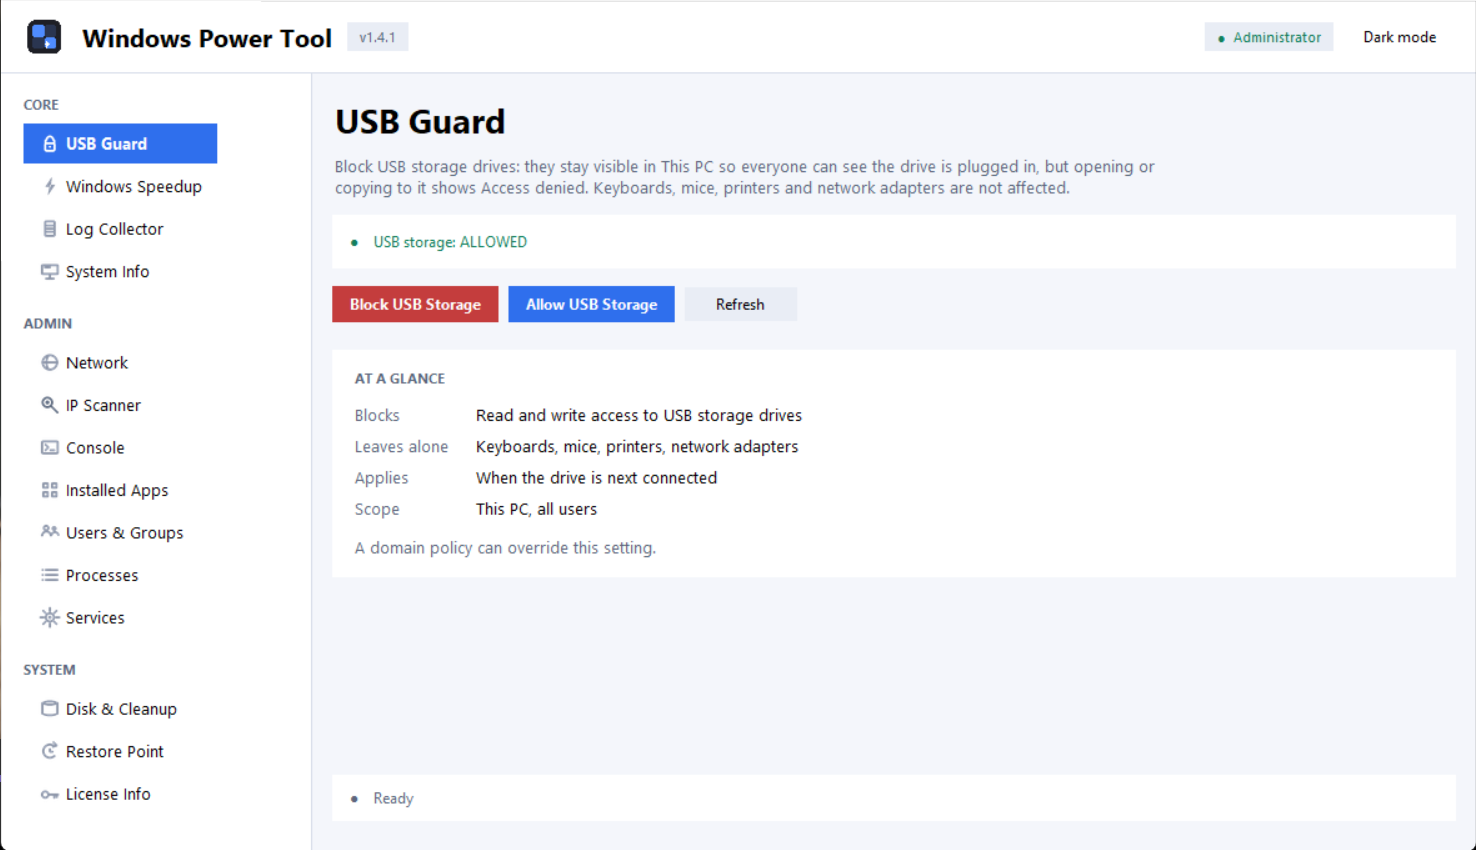
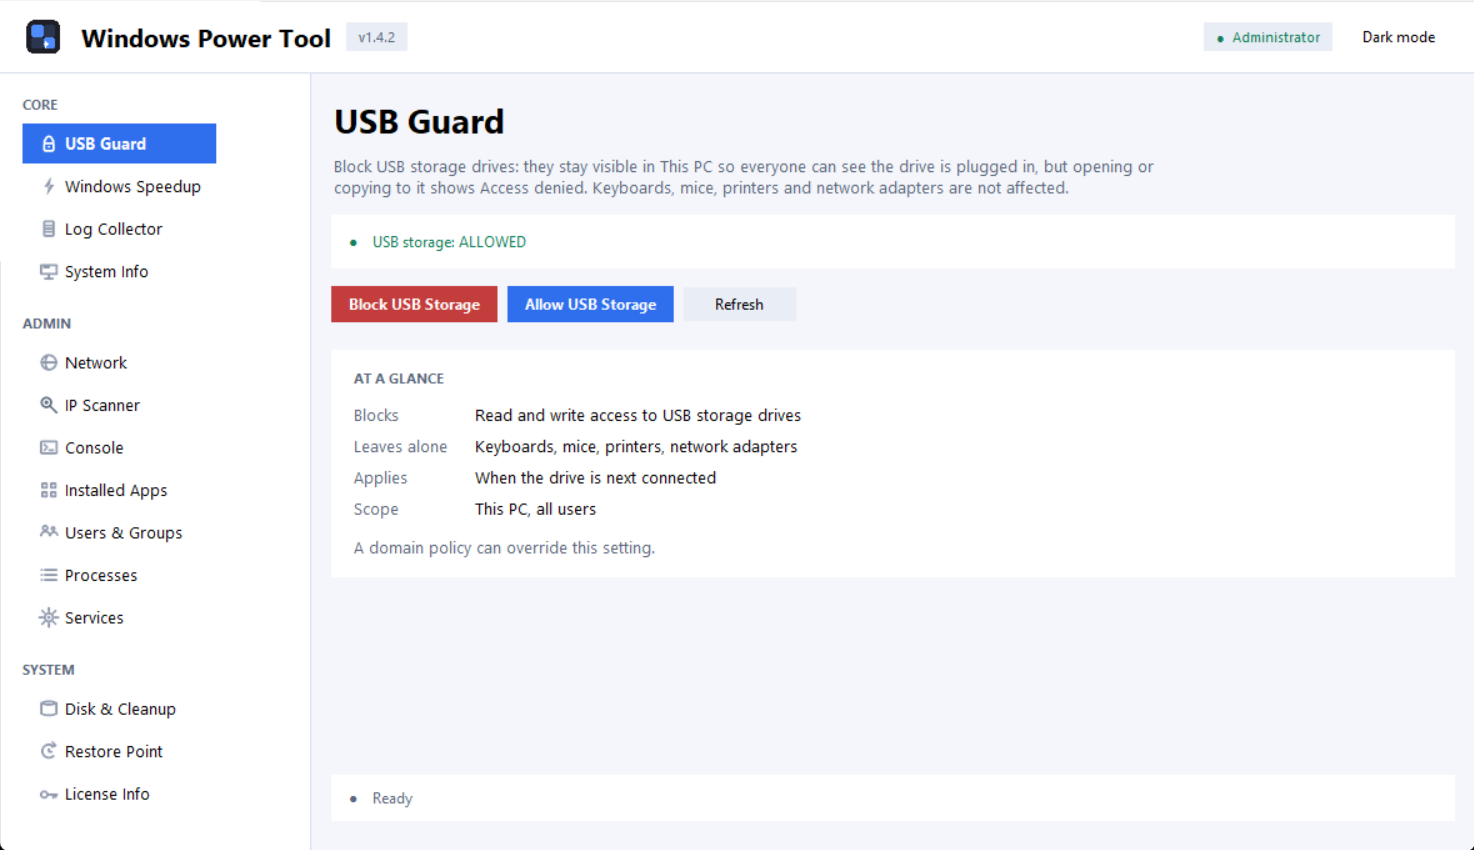
chore: bump to 1.4.2 and refresh screenshots

diff --git a/tests/test_version.py b/tests/test_version.py
@@ -6,8 +6,8 @@ from power_tool import main as main_module
 class VersionTests(unittest.TestCase):
     def test_version_format(self):
         self.assertRegex(__version__, r"^\d+\.\d+\.\d+$")
-    def test_version_is_1_4_1(self):
-        self.assertEqual(__version__, "1.4.1")
+    def test_version_is_1_4_2(self):
+        self.assertEqual(__version__, "1.4.2")
     def test_window_title_includes_version(self):
         src = inspect.getsource(main_module)
         self.assertIn('f"Windows Power Tool {__version__}"', src)

diff --git a/power_tool/__init__.py b/power_tool/__init__.py
@@ -1,1 +1,1 @@
-__version__ = "1.4.1"
+__version__ = "1.4.2"

diff --git a/README.md b/README.md
@@ -14,7 +14,7 @@ Get **WindowsPowerTool.exe** from the [latest release](https://github.com/agentT
 
 ## What's new in 1.4.x
 
-**1.4.1** accepts a trailing dot on IPs and hostnames in the port scanner, and uses full black/white button text for better contrast.
+**1.4.2** accepts a trailing dot on IPs and hostnames in the port scanner, and keeps every button label — including disabled ones — full black in the light theme and full white in the dark theme.
 
 - **IP Scanner** — sweep a block, see every host with its name, MAC and ping time, get the addresses that are still free, and port-scan a single machine.
 - **Add User** — create a local account from Users & Groups, with the exact commands shown before anything runs and the password kept out of the preview.
